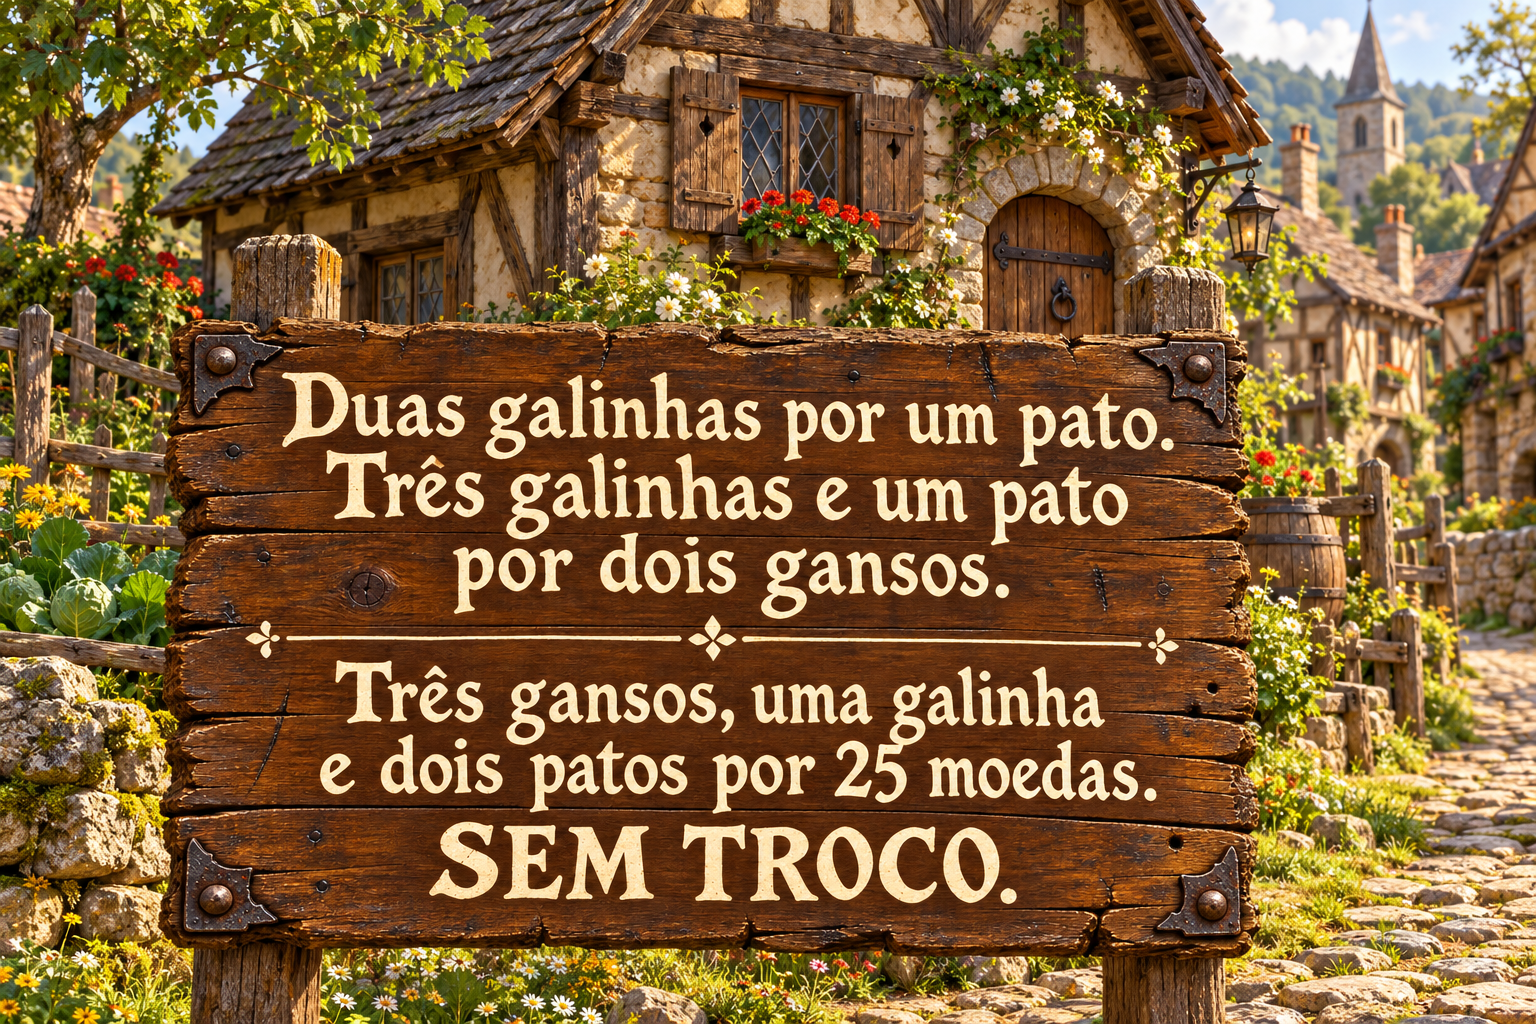
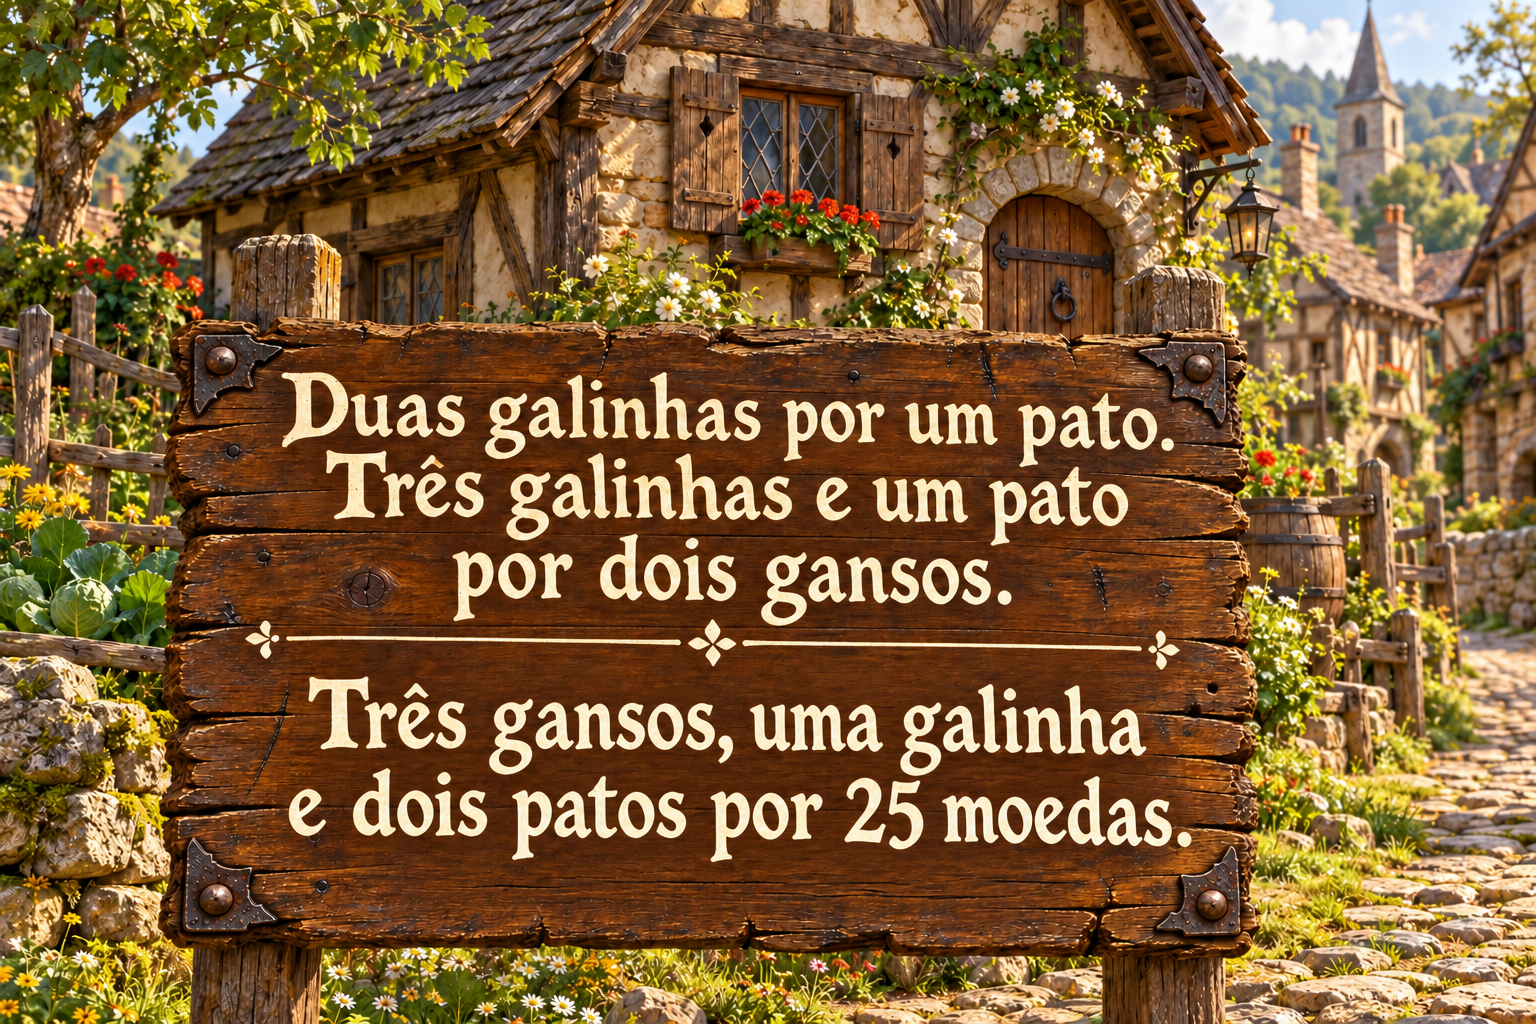
novo enigma adicionado

diff --git a/enigmas/12/index.html b/enigmas/12/index.html
@@ -4,11 +4,11 @@
 <head>
     <meta charset="utf-8">
     <meta name="viewport" content="width=device-width,initial-scale=1">
-    <title>Pagando o pato · Livro dos Enigmas</title>
+    <title>Nazaré confusa · Livro dos Enigmas</title>
     <link rel="stylesheet" href="../../css/livro.css">
 </head>
 
-<body data-enigma="11">
+<body data-enigma="12">
     <main class="book page-shell">
         <div class="book-inner">
             <nav class="nav-pages"><a id="prev1"></a><a id="index-link1">Índice</a><a id="next"></a></nav>
@@ -18,10 +18,11 @@
             <p id="enigma-points" class="enigma-value" aria-live="polite"></p>
             <div class="flourish" aria-hidden="true">✦ ✧ ✦</div>
             <section class="enigma-content">
-                <p class="intro">Hermann é um dos aldeões mais conhecidos do Reino, não porque é o criador de aves, mas pela forma peculiar de anunciar o preço de suas mercadorias.</p>
-                <p>Em frente ao seu chalé, Hermann recentemente fixou uma placa:</p>
-                <figure class="figure"><img src="Placa.png" width="100%"></figure>
-                <p>Por quantas moedas Hermann está vendendo um pato?</p>
+                <p class="intro">Muitas vezes pensar de maneira diferente pode levar a soluções inesperadas.</p>
+                <figure class="figure"><img src="NazareConfusa.jpg" width="100%"></figure>
+                <p>Qual o número que triplicado, depois aumentado em 75%, o resultado dividido por sete, o quociente reduzido de seu terço, 
+                    o resultado multiplicado por ele mesmo, esse número quadrado menos 52, a raiz quadrada da diferença encontrada somada 
+                    a oito e a soma dividida por dez, resulta no número 2?</p>
                 <div style="text-align:center;" role="group" aria-label="Quantidade de abelhas">
                     <input data-answer-input class="number-box" inputmode="numeric" type="text" maxlength="4" pattern="[0-9]{1,4}"
                         style="width: 200px;" autocomplete="off" placeholder="" aria-label="Quantidade de abelhas">

diff --git a/enigmas/12/enigma.js b/enigmas/12/enigma.js
@@ -1,0 +1,28 @@
+import {send} from '../../js/livro.js';
+
+const input=document.querySelector('[data-answer-input]');
+const button=document.getElementById('submit-answer');
+const message=document.getElementById('message');
+
+input.addEventListener('input',()=>{
+  input.value=input.value.replace(/\D/g,'').slice(0,4);
+  input.setCustomValidity('');
+});
+
+async function submit(){
+  // O módulo comum controla disponibilidade, envio e bloqueio da equipe.
+  if(button.disabled||button.hidden||input.disabled)return;
+  const value=input.value.trim();
+  if(!/^[0-9]{1,4}$/.test(value)||Number(value)<1){
+    message.textContent='Informe a quantidade de abelhas antes de enviar.';
+    input.focus();
+    return;
+  }
+  const answer=String(Number(value));
+  input.value=answer;
+  await send(answer);
+}
+button.addEventListener('click',submit);
+input.addEventListener('keydown',event=>{
+  if(event.key==='Enter'){event.preventDefault();submit();}
+});
